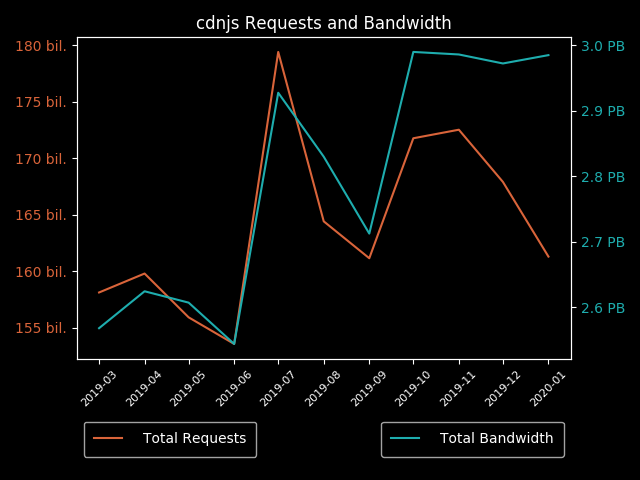
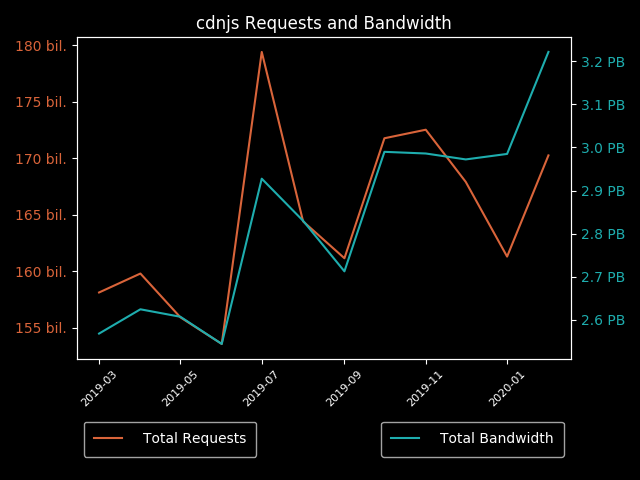
Graphs: February 2020

diff --git a/graph.py b/graph.py
@@ -88,7 +88,9 @@ def top_5_resources():
     for file in plot:
         ax.plot(*plot[file], label=file, marker="o", markersize=4)
     ax.set_title("cdnjs Top 5 Resources")
-    ax.legend(loc="upper center", bbox_to_anchor=(0.5, -0.15), ncol=1)
+    ax.tick_params(axis="x", labelsize=8, labelrotation=45)
+    fig.subplots_adjust(bottom=0.5)
+    ax.legend(loc="upper center", bbox_to_anchor=(0.5, -0.3), ncol=1)
     plt.show()
     fig.savefig("cdnjs_top_5_resources.png")
 
